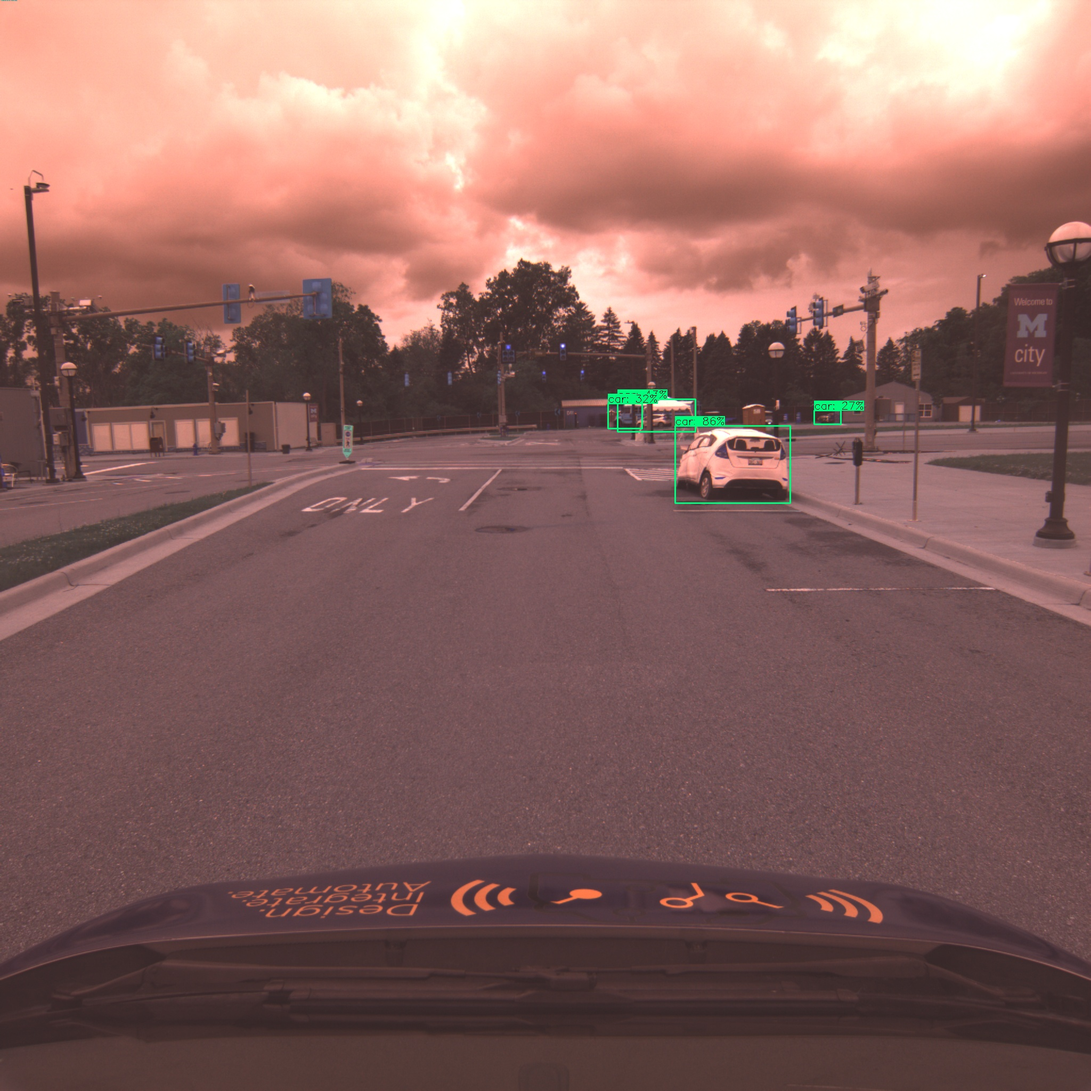
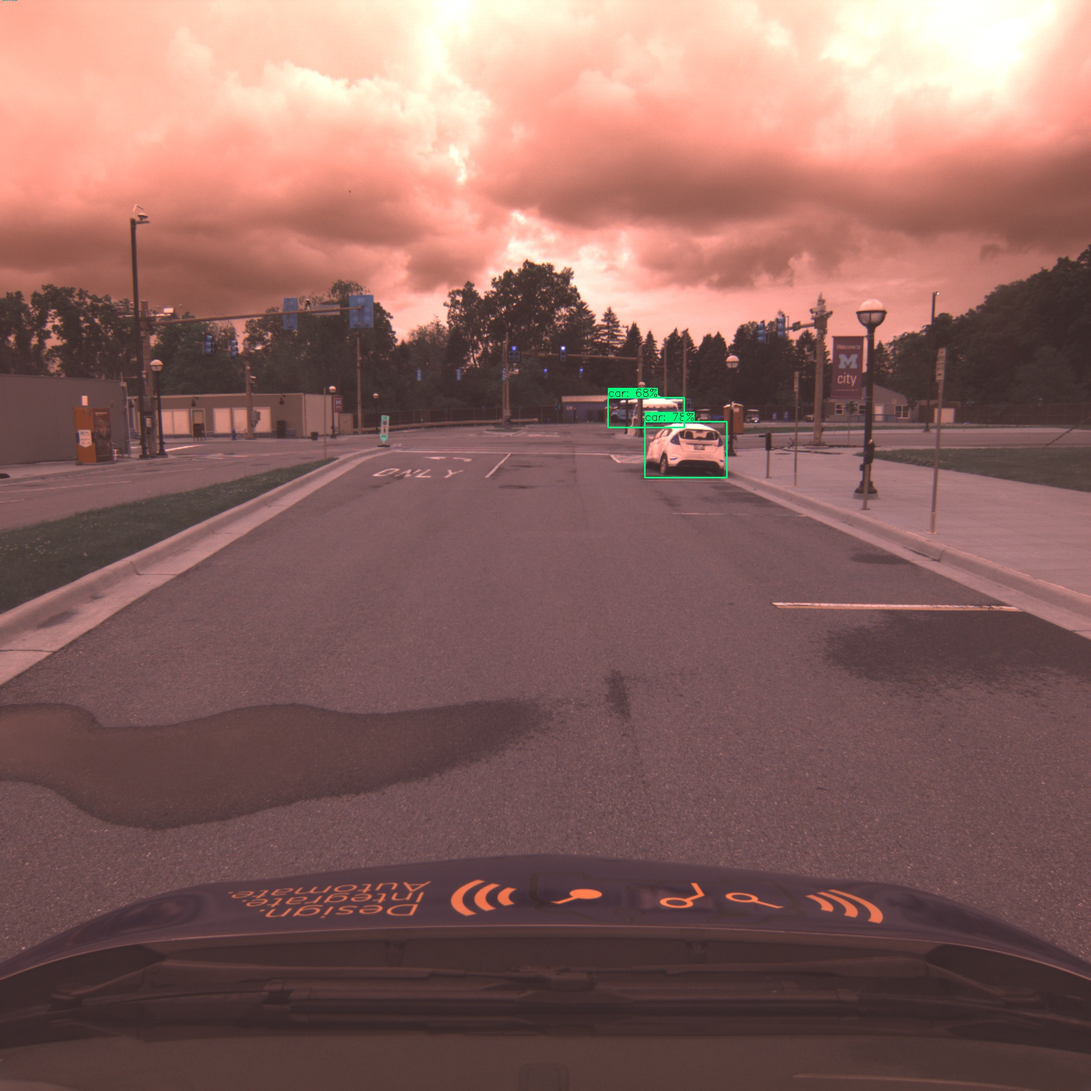
final draft - bounding box fix

diff --git a/rootfs/catkin_ws/src/ros_basics_tutorials/scripts/image_subscriber.py b/rootfs/catkin_ws/src/ros_basics_tutorials/scripts/image_subscriber.py
@@ -235,7 +235,7 @@ def callback_Img(data):
 			#print(i)
 			#cv2_imshow(ori_imgs[i])
 			out[i]['rois'] = scale_coords(ori_imgs[i][:2], out[i]['rois'], shapes[i][0], shapes[i][1])
-			boxes = []
+			boxes.bounding_boxes = []
 			for j in range(len(out[i]['rois'])):
 				x1, y1, x2, y2 = out[i]['rois'][j].astype(int)
 				obj = obj_list[out[i]['class_ids'][j]]
